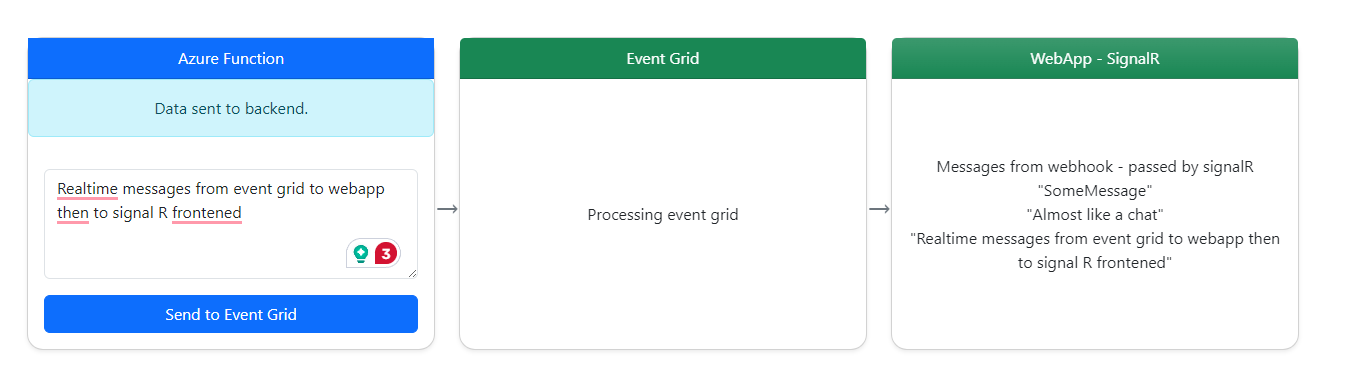
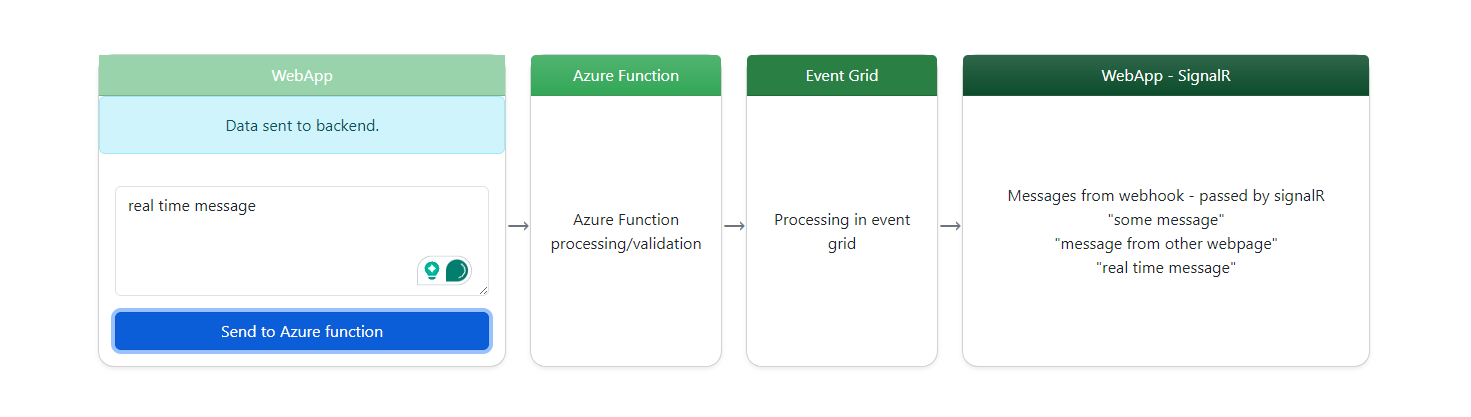
css + readme

diff --git a/src/webApp/wwwroot/css/home.css b/src/webApp/wwwroot/css/home.css
@@ -90,4 +90,24 @@ body {
   line-height: 60px;
   /* Vertically center the text there */
 }
+.bg-green-100 {
+  background-color: #e6f4ea;
+  /* Very light green */
+}
+.bg-green-200 {
+  background-color: #99d3ab;
+  /* Medium light green */
+}
+.bg-green-300 {
+  background-color: #33a757;
+  /* Medium dark green */
+}
+.bg-green-400 {
+  background-color: #297f44;
+  /* Very dark green */
+}
+.bg-green-500 {
+  background-color: #0b4c2b;
+  /* Deep green */
+}
 /*# sourceMappingURL=home.css.map */

diff --git a/src/webApp/wwwroot/css/home.less b/src/webApp/wwwroot/css/home.less
@@ -98,3 +98,22 @@ body {
   line-height: 60px; /* Vertically center the text there */
 }
 
+.bg-green-100 {
+  background-color: #e6f4ea; /* Very light green */
+}
+
+.bg-green-200 {
+  background-color: #99d3ab; /* Medium light green */
+}
+
+.bg-green-300 {
+  background-color: #33a757; /* Medium dark green */
+}
+
+.bg-green-400 {
+  background-color: #297f44; /* Very dark green */
+}
+
+.bg-green-500 {
+  background-color: #0b4c2b; /* Deep green */
+}
